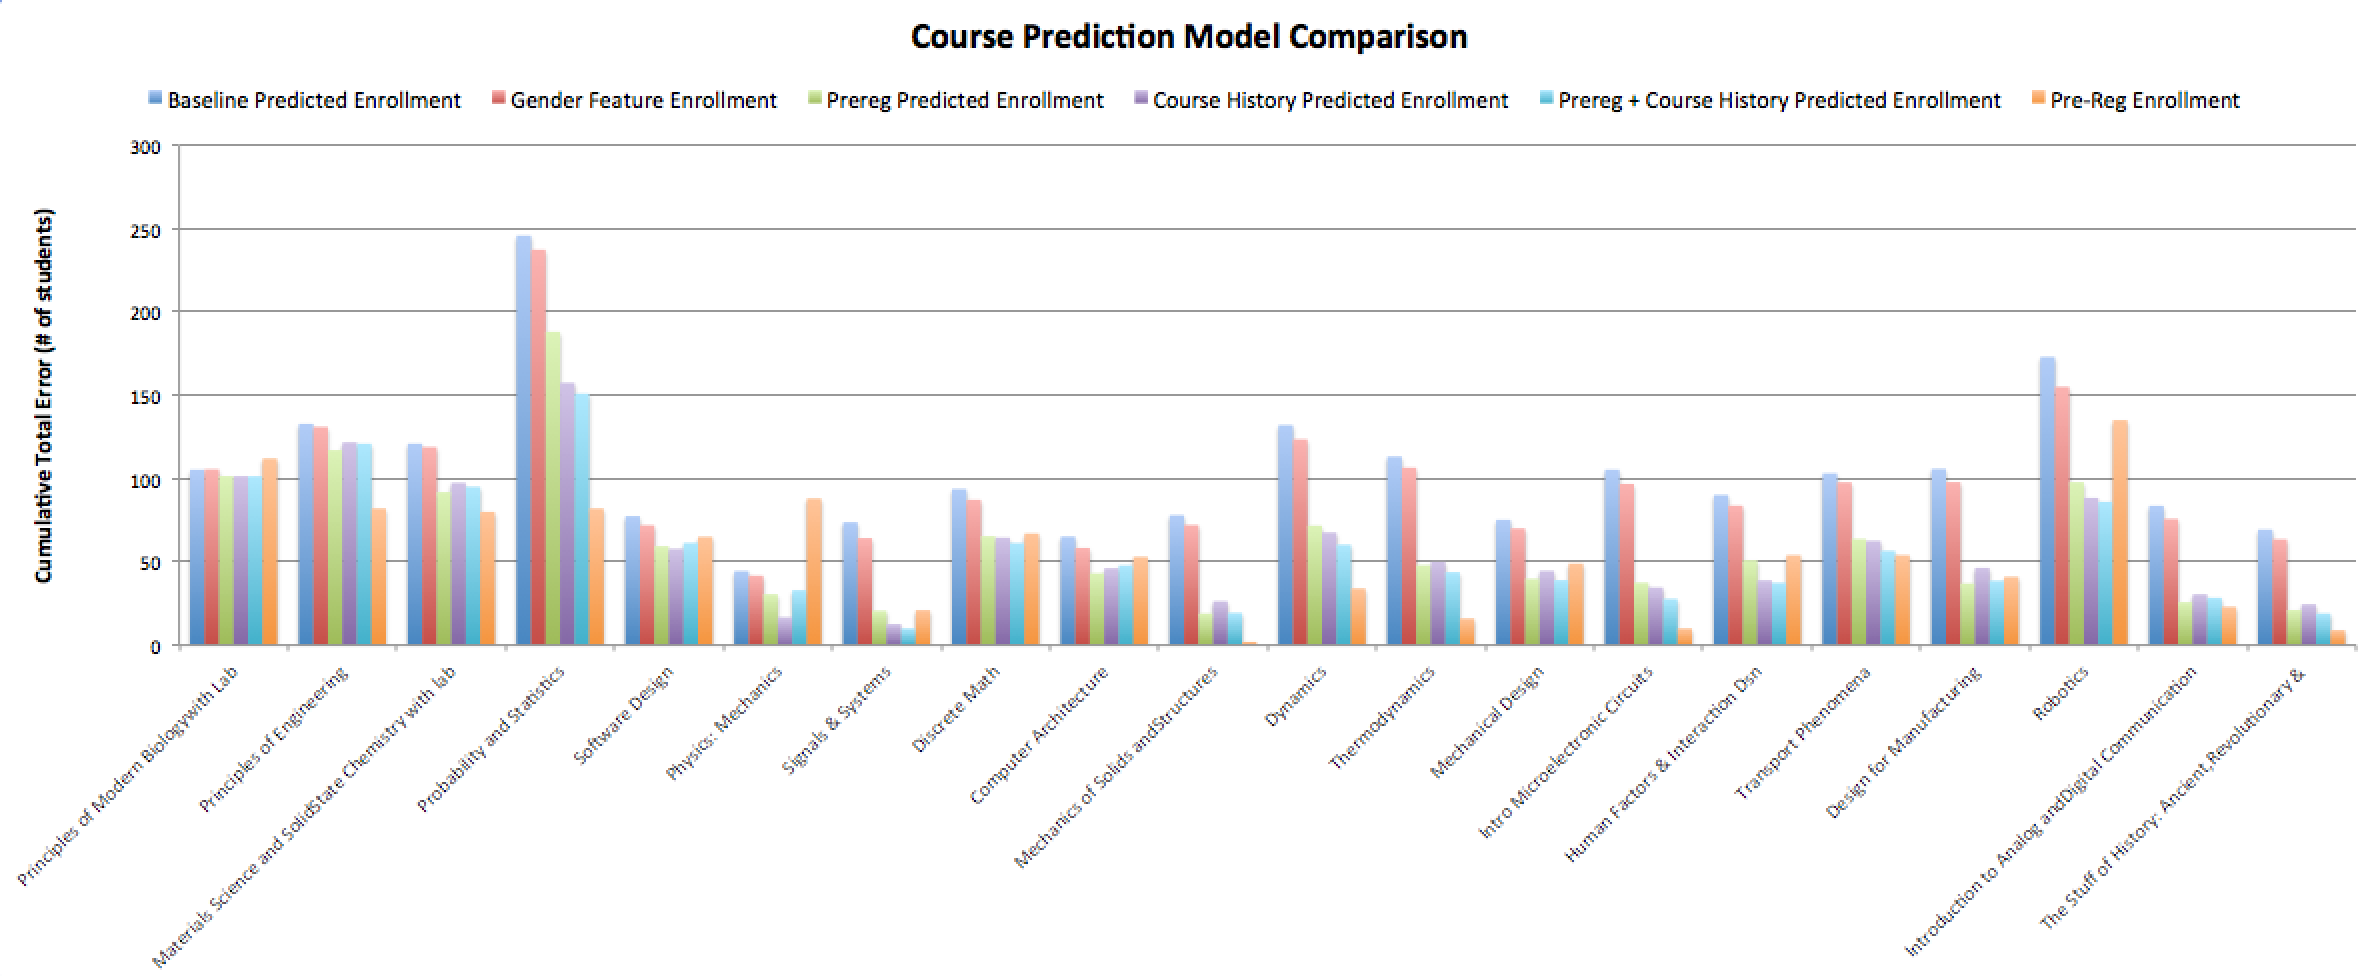
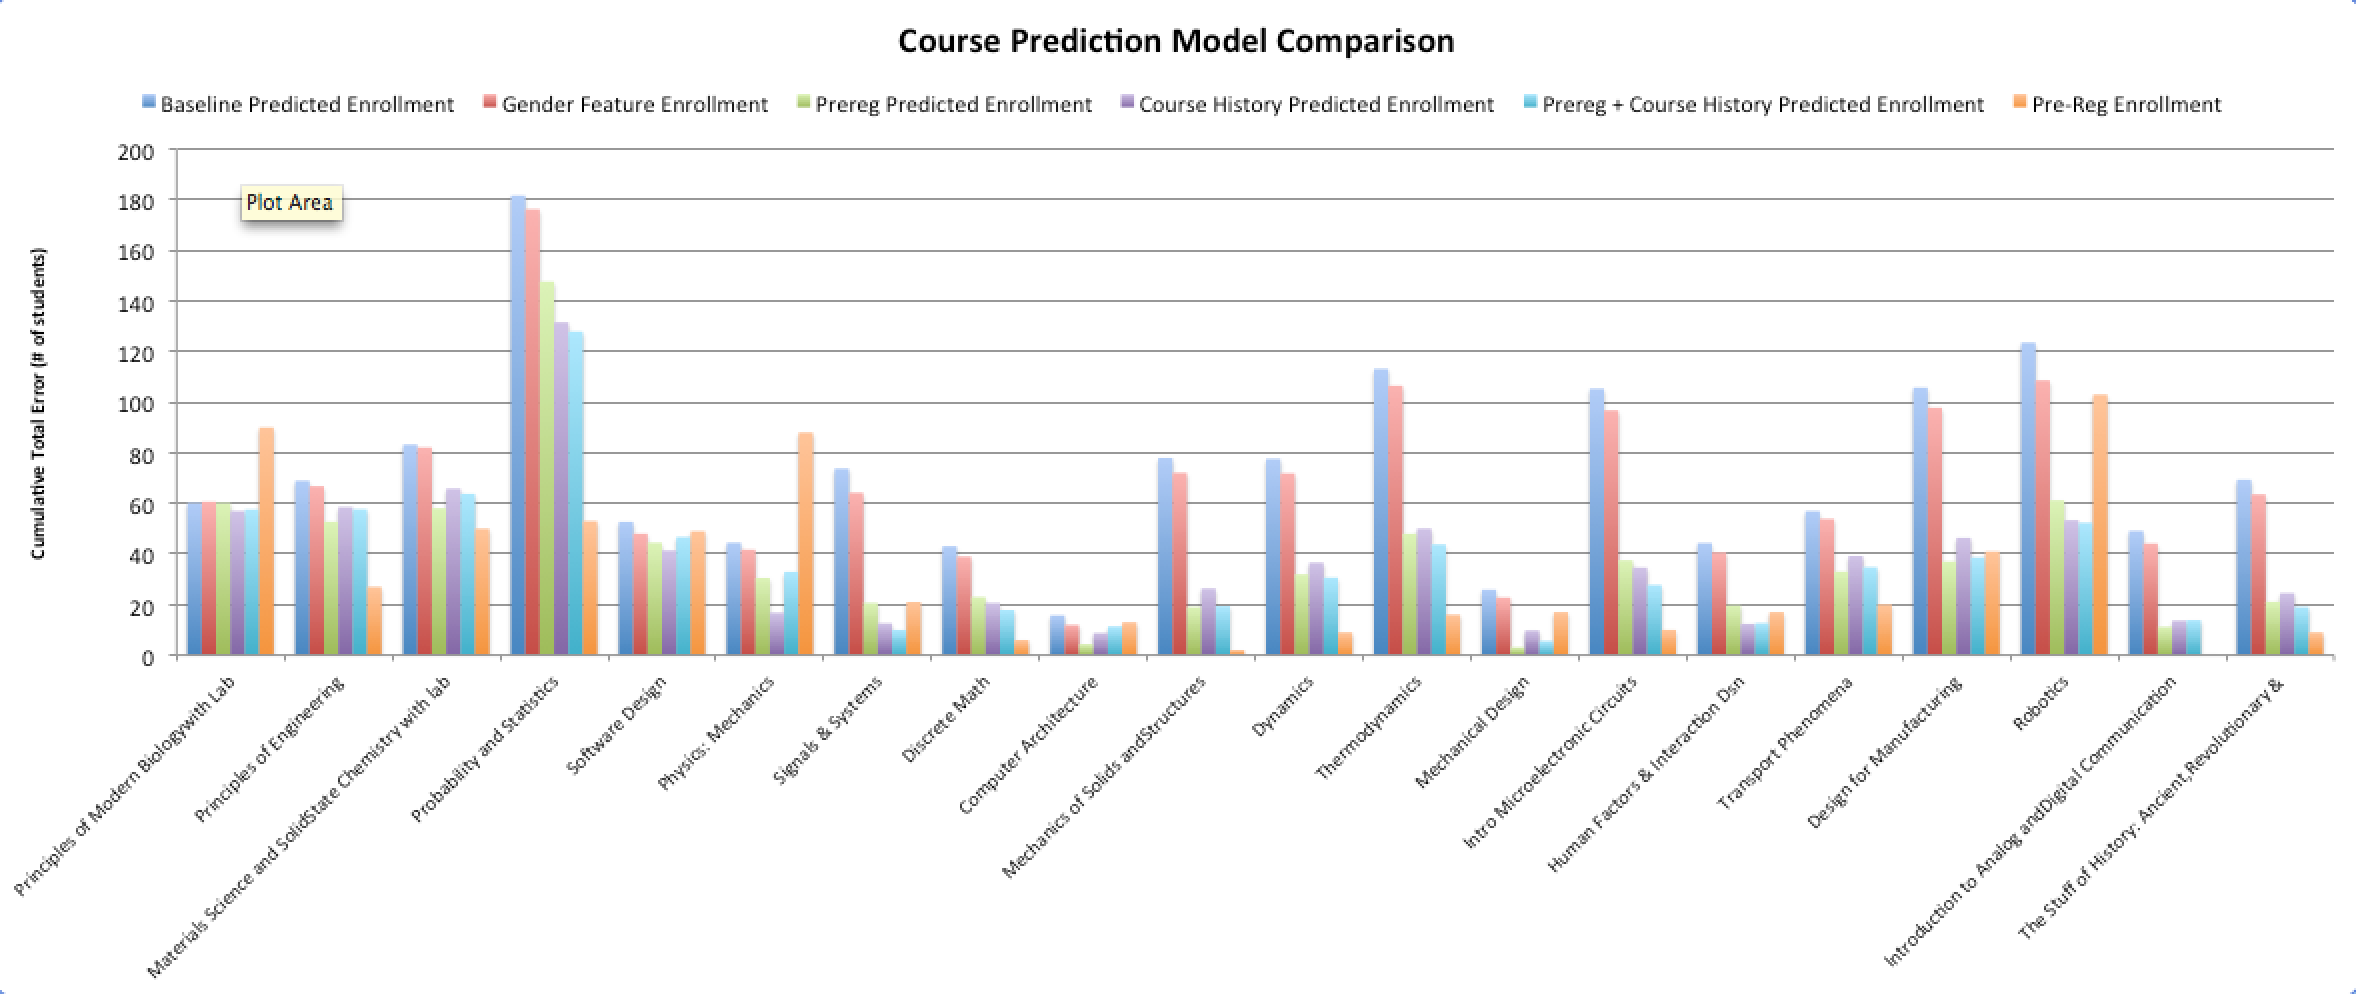
Making the error calculation not off by one semester and updating the graph for results

diff --git a/controllers/analyze_predictions.py b/controllers/analyze_predictions.py
@@ -57,10 +57,9 @@ def calculate_error_for_each_model(course_list, courses, semester_names, sim_dat
     error_for_each_model = [0]*number_of_models
     for j in range(number_of_models + 1): 
       error_for_each_model = 0.0
-      for i in range(num_semesters):
-        smoother = 0.0
-        if actual_enrollment[i] == 0:
-          smoother = 1.0
+      # only calculate for the number of semester we actually have data for (since right now we 
+      # have data for one less semester than we have pre-reg data for)
+      for i in range(num_semesters-1):
         # pre-reg data
         if j == number_of_models:
           if prereg_enrollment[i] == 0:
